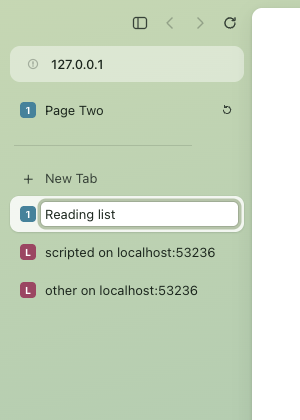
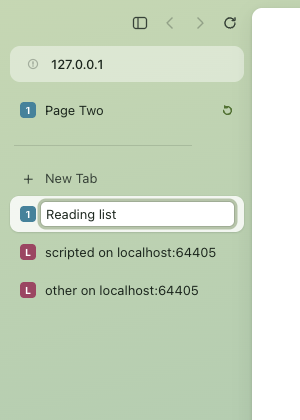
tabs: rename field keeps clear of the row edge

diff --git a/src/ui/ui.css b/src/ui/ui.css
@@ -575,7 +575,7 @@ body:not(.no-agent) #tablist, #agent.overflows {
   user-select: text; cursor: text;
 }
 .row .tab-rename {
-  flex: 1; min-width: 0; height: 24px; margin: 0 0 0 -4px; padding: 0 4px;
+  flex: 1; min-width: 0; height: 24px; margin: 0 4px 0 -4px; padding: 0 5px;
   border: 0; outline: 0; border-radius: 5px; background: var(--card); color: var(--text);
   font: 13px/24px -apple-system, BlinkMacSystemFont, system-ui, sans-serif;
   box-shadow: 0 0 0 1px var(--line), 0 0 0 3.5px color-mix(in srgb, var(--accent) 38%, transparent);
